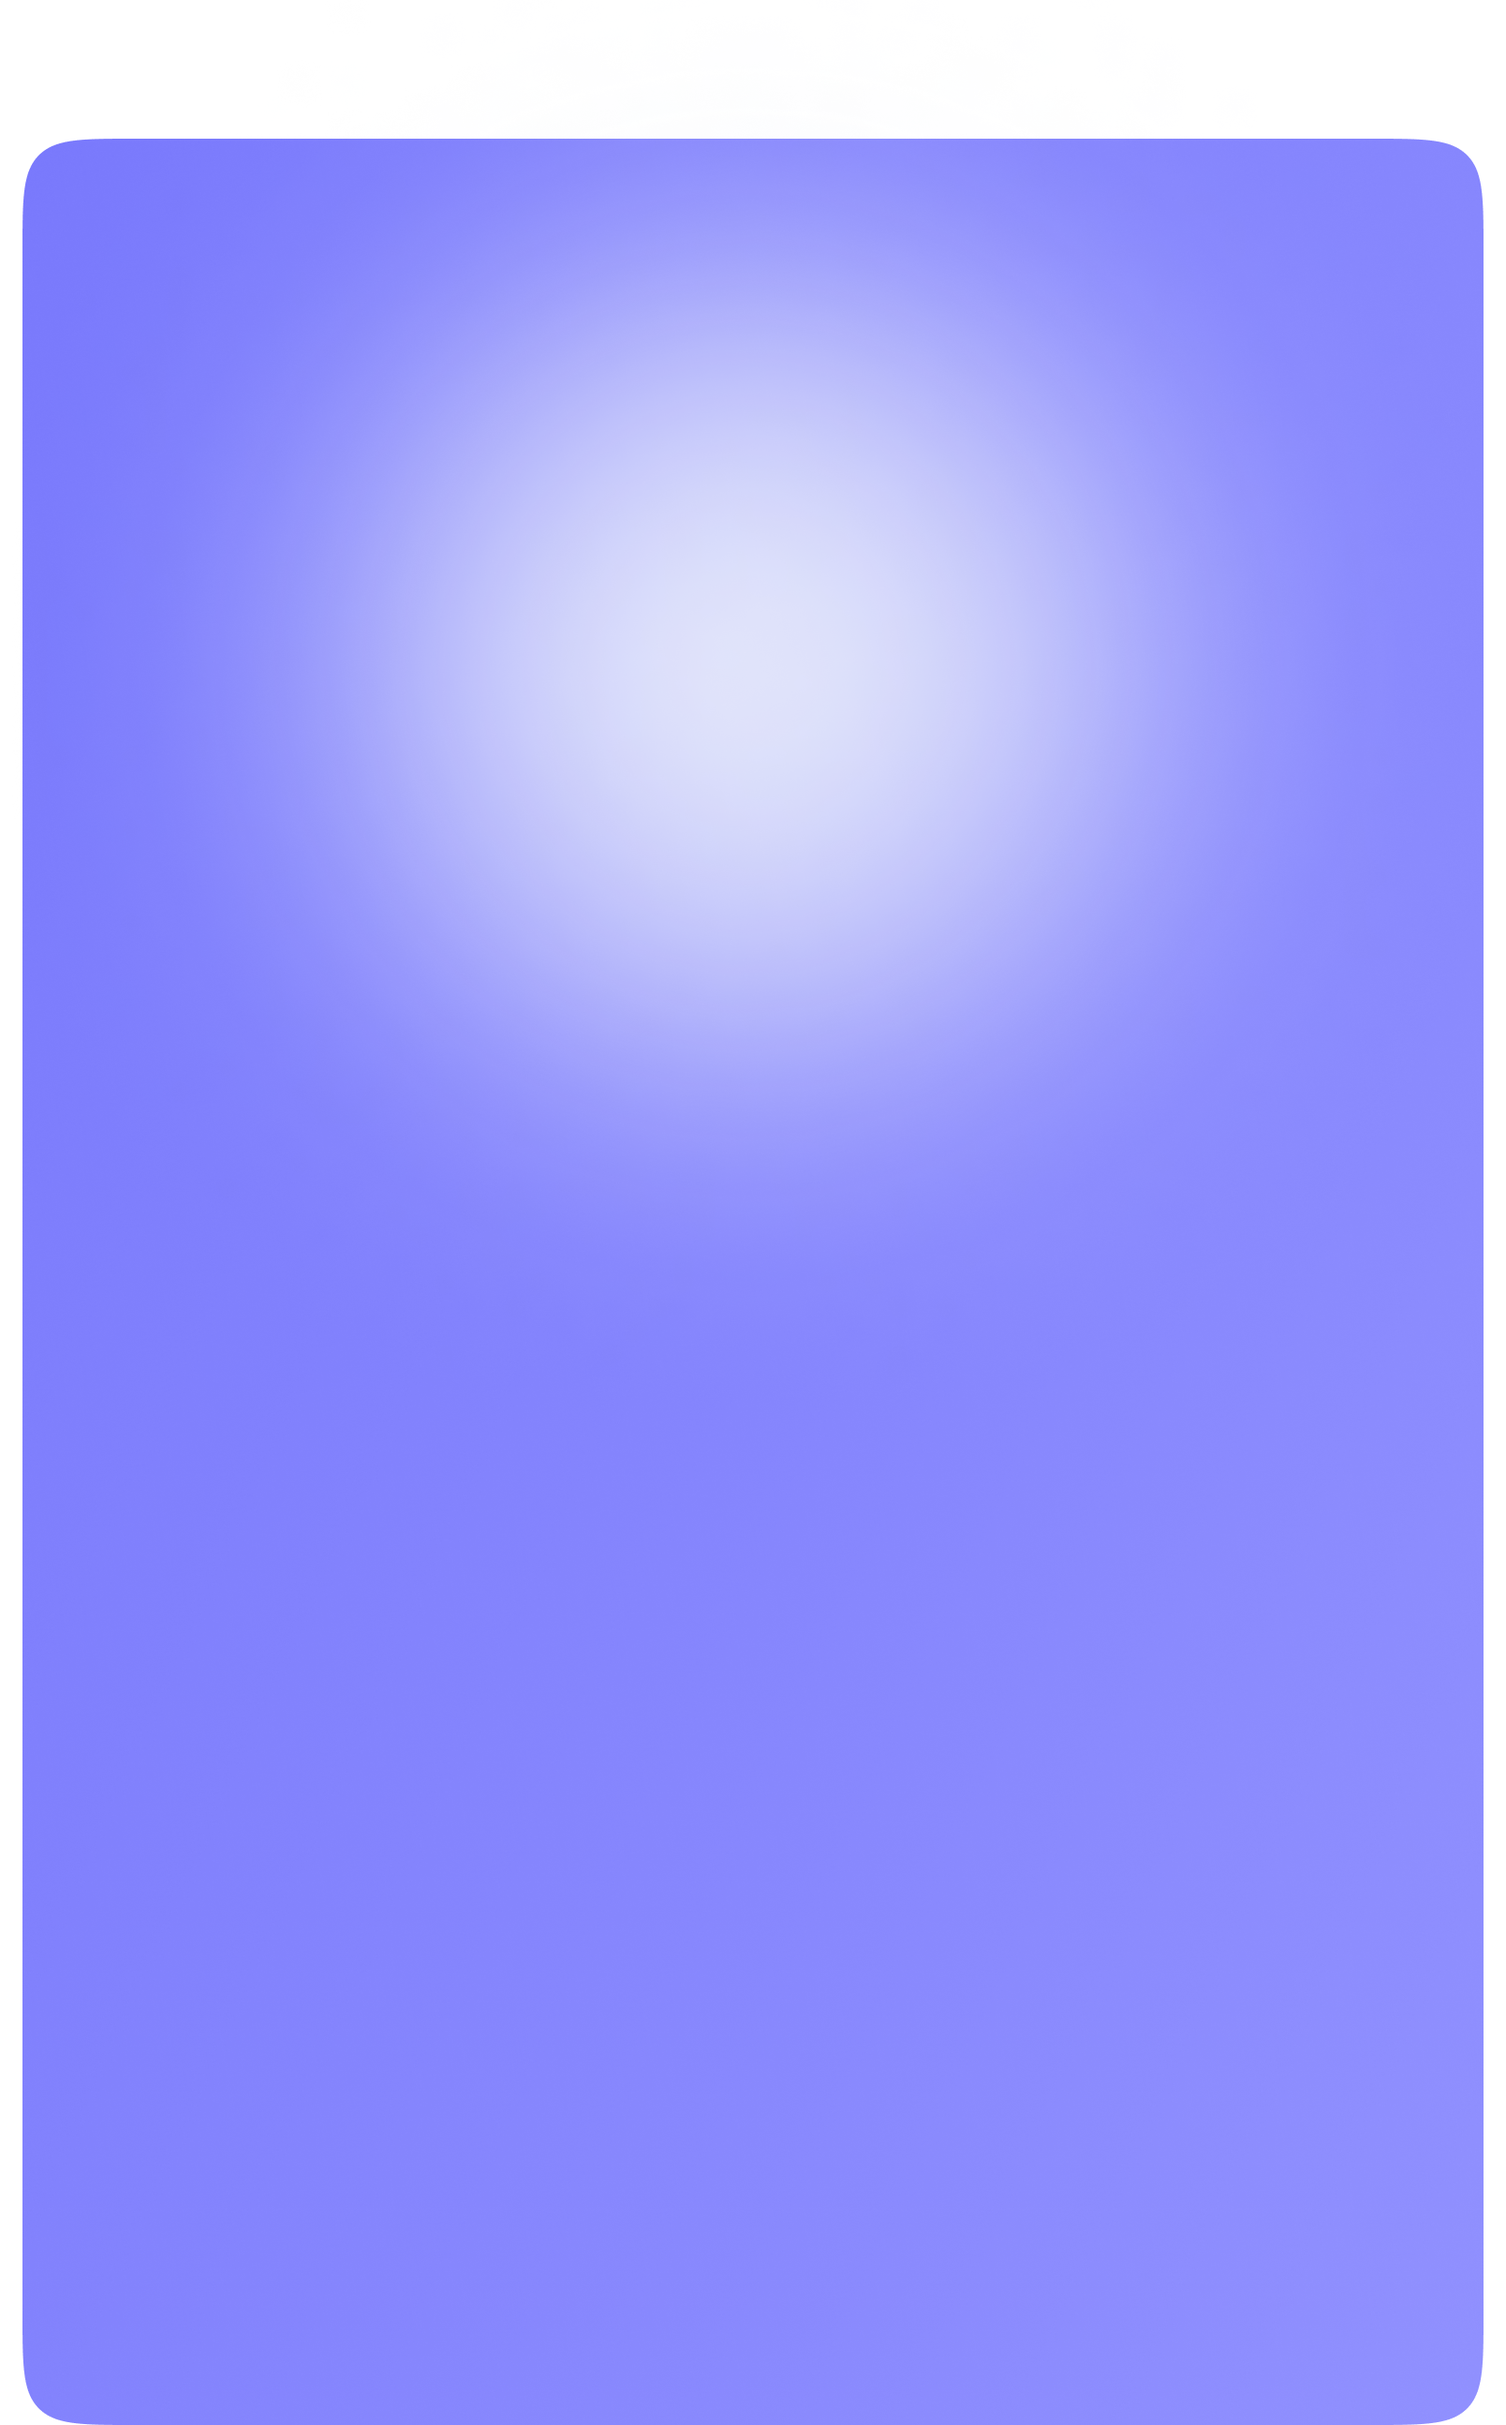
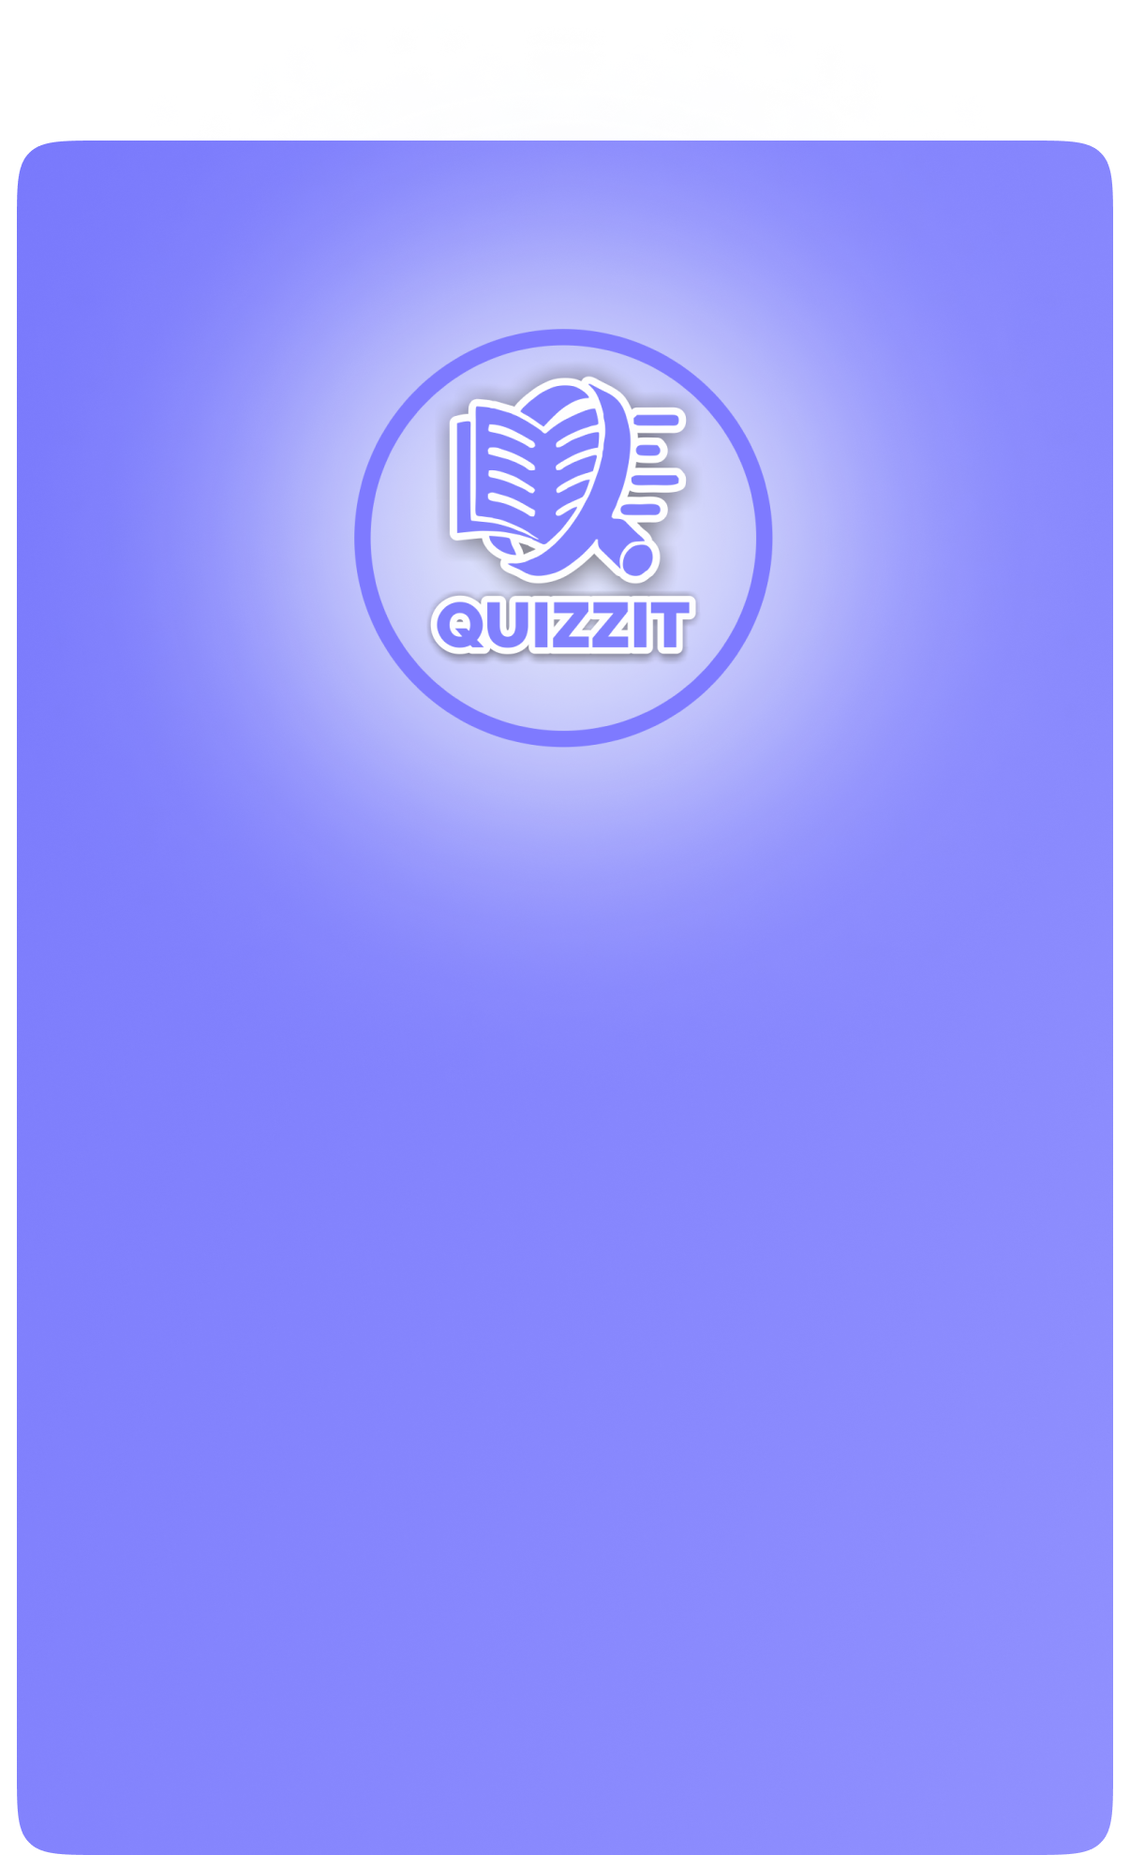
create a share screen

Changed region(s): [[0.3375, 0.154, 0.7056, 0.4005], [0.0, 0.0308, 0.9818, 0.0924], [0.3068, 0.2465, 0.3375, 0.3389]]

diff --git a/lib/src/Screens/MainScreen/ShareScreen/share_screen.dart b/lib/src/Screens/MainScreen/ShareScreen/share_screen.dart
@@ -1,11 +1,19 @@
 import 'package:earn_streak/src/Constants/app_images.dart';
 import 'package:earn_streak/src/Element/padding_class.dart';
 import 'package:earn_streak/src/Utils/Notifier/share_notifier.dart';
+import 'package:flutter/cupertino.dart';
 import 'package:flutter/material.dart';
+import 'package:flutter/widgets.dart';
 import 'package:flutter_screenutil/flutter_screenutil.dart';
 import 'package:provider/provider.dart';
 
-ShareScreen() => ChangeNotifierProvider<ShareNotifier>(create: (_) => ShareNotifier(), child: Builder(builder: (context) => const ShareScreenProvider()),);
+import '../../../Constants/app_colors.dart';
+import '../../../Style/text_style.dart';
+
+ShareScreen() => ChangeNotifierProvider<ShareNotifier>(
+      create: (_) => ShareNotifier(),
+      child: Builder(builder: (context) => const ShareScreenProvider()),
+    );
 
 class ShareScreenProvider extends StatelessWidget {
   const ShareScreenProvider({super.key});
@@ -14,14 +22,79 @@ class ShareScreenProvider extends StatelessWidget {
   Widget build(BuildContext context) {
     return SizedBox(
       // height: ScreenUtil().screenHeight - 80,
-      height:ScreenUtil().screenHeight,
+      height: ScreenUtil().screenHeight,
       child: Scaffold(
-        body: Column(
+        body: Stack(
           children: [
-            paddingTop(50),
-            Image.asset(AppImages.shareBackground, ),
+            Container(
+              height: ScreenUtil().screenHeight - 120,
+              width: ScreenUtil().screenWidth,
+              padding: EdgeInsets.only(left: 20, top: 60, right: 20),
+              child: ClipRRect(
+               borderRadius: BorderRadius.circular(15),
+                child: Image.asset(
+                  AppImages.shareBackground,
+                  fit: BoxFit.cover,
+                ),
+              ),
+            ),
+            Positioned(
+              top: 400,
+              left: 60,
+              right: 60,
+              child: Column(
+                children: [
+                  Text(
+                    "Refer your friends",
+                    style: TextStyleTheme.customTextStyle(AppColors.white, 24, FontWeight.w600),
+                  ),
+                  paddingTop(30.h),
+                  paddingTop(10.h),
+                  Text(
+                    "Share your code",
+                    style: TextStyleTheme.customTextStyle(AppColors.white, 14, FontWeight.w400),
+                  ),
+                  paddingTop(20.h),
+                  Divider(thickness: 1.sp,color: AppColors.white,),
+                  paddingTop(10.h),
+                  Text(
+                    "Lorem Ipsum is simply dummy text",
+                    style: TextStyleTheme.customTextStyle(AppColors.white, 16, FontWeight.w700),
+                  ),
+                  paddingTop(10.h),
+                  Text(
+                    "Contrary to popular belief, Lorem Ipsum is not simply random text.",
+                    textAlign: TextAlign.center,
+                    style: TextStyleTheme.customTextStyle(AppColors.white, 14, FontWeight.w400,),
+                  ),
+                  paddingTop(10.h),
+                  Stack(
+                    children: [
+                      Image.asset(
+                        AppImages.buttonBackground,
+                        fit: BoxFit.cover,
+                      ),
+                      Positioned(
+                        left: 0,
+                        right: 0,
+                        top: 0,
+                        bottom: 15,
+                        child: Center(
+                          child: Text(
+                            "Invite Now",
+                            textAlign: TextAlign.center,
+                            style: TextStyleTheme.customTextStyle(AppColors.white, 16, FontWeight.w700),
+                          ),
+                        ),
+                      ),
+                    ],
+                  ),
+
+                ],
+              ),
+            )
           ],
-        )
+        ),
       ),
     );
   }

diff --git a/lib/src/Constants/app_images.dart b/lib/src/Constants/app_images.dart
@@ -61,4 +61,5 @@ class AppImages {
 
   static const backgroundImg = "$pngPath/background_img.png";
   static const shareBackground = "$pngPath/share_background.png";
+  static const buttonBackground = "$pngPath/button_background.png";
 }
